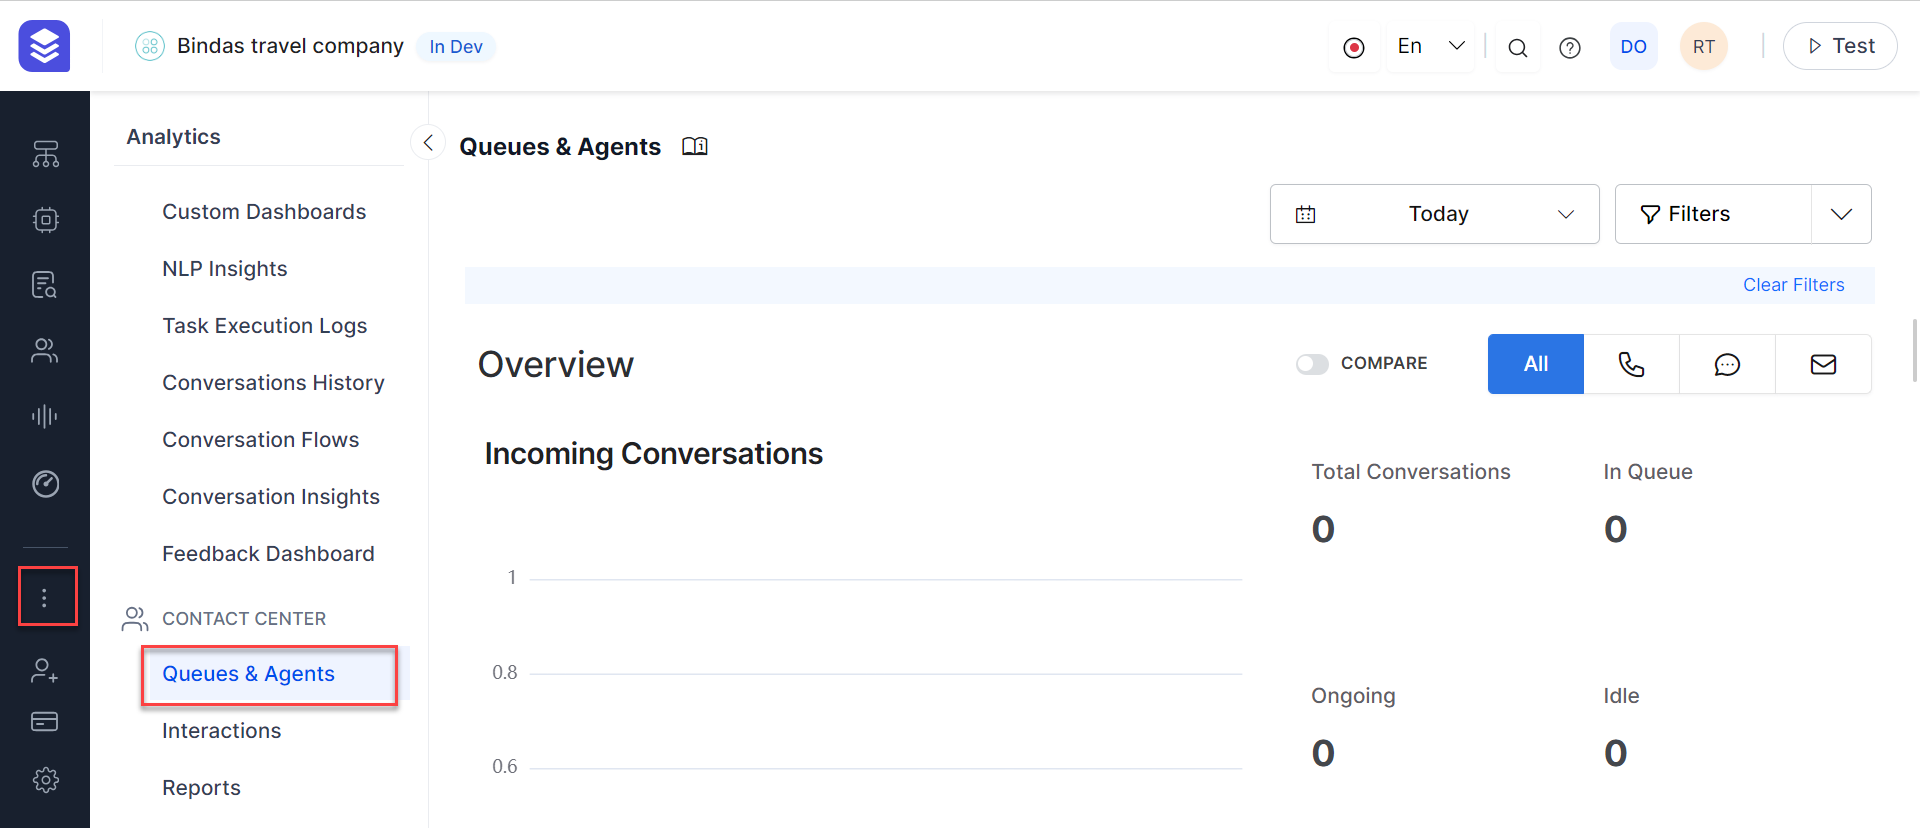
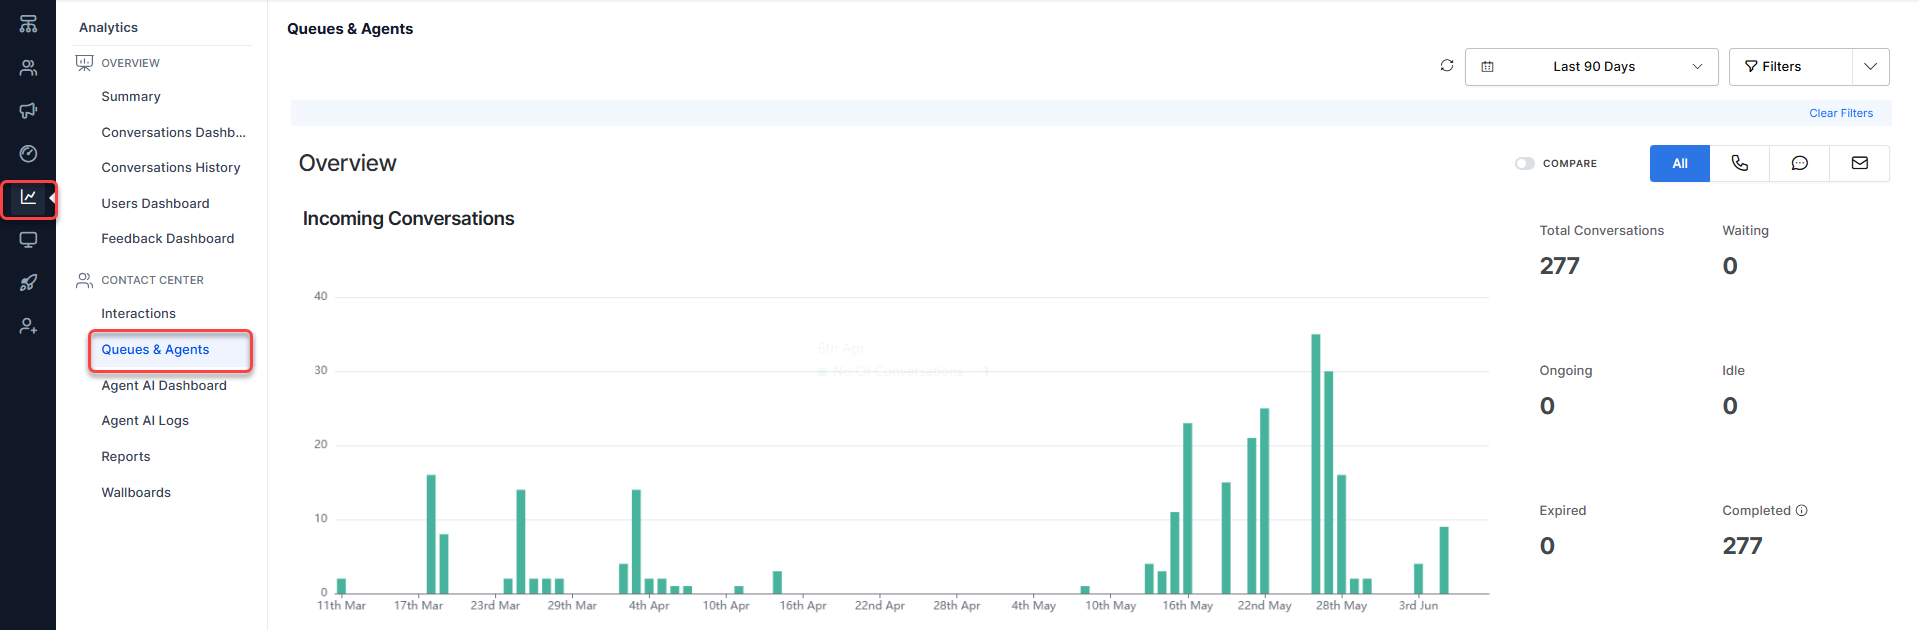
updated ques and reports

diff --git a/docs/xo/analytics/contact-center/queues-and-agents.md b/docs/xo/analytics/contact-center/queues-and-agents.md
@@ -4,7 +4,7 @@ The Queues & Agents dashboard displays the Overview, Efficiency, Agent Performan
 
 **To view the Queues & Agents dashboard, follow the steps**:
 
-1. Click the three dots on the left navigation pane and then click **Analytics**. The **Analytics** panel is displayed with the list of reports.
+1. Click **Analytics** on the left navigation pane. The **Analytics** panel is displayed with the list of reports.
 
     <img src="../images/navigating-to-queues-agents-report.png" alt="Navigating to Queues Agents Report" title="Navigating to Queues Agents Report" style="border: 1px solid gray; zoom:80%;">
 
